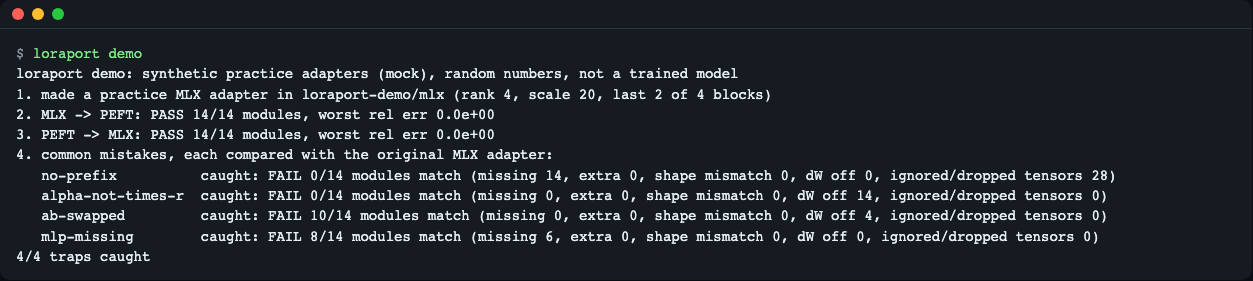
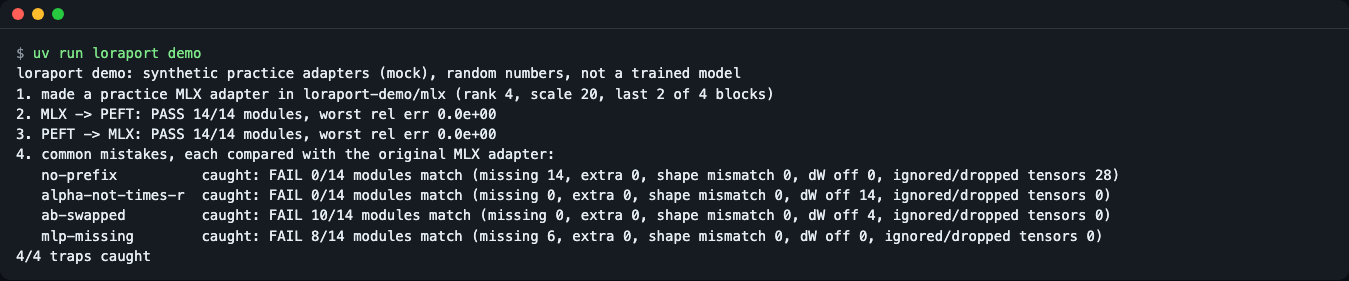
fix(demo): create the DoRA example folder in demo
The demo command now writes loraport-demo/dora so the README refusal
example reproduces. Refresh screenshots, docs and tests to match.

diff --git a/src/loraport/cli.py b/src/loraport/cli.py
@@ -18,7 +18,7 @@ from .delta import compare
 from .detect import load_adapter
 from .errors import LoraportError, UnsupportedAdapterError
 from .render import adapter_summary, render_inspect, render_report
-from .sample import TRAP_NAMES, make_mlx_adapter, make_trap, write_base_config
+from .sample import TRAP_NAMES, make_dora_adapter, make_mlx_adapter, make_trap, write_base_config
 
 
 def _cmd_inspect(args: argparse.Namespace) -> int:
@@ -98,6 +98,8 @@ def _cmd_demo(args: argparse.Namespace) -> int:
         caught += 0 if rep.ok else 1
         print(f"   {kind:<18} {'caught' if not rep.ok else 'MISSED'}: {rep.headline()}")
     print(f"{caught}/{len(TRAP_NAMES)} traps caught")
+    # extra folder for README section 5 (a DoRA adapter that convert must refuse); prints nothing
+    make_dora_adapter(mlx_dir, out / "dora")
     return 0 if to_peft.ok and back.ok and caught == len(TRAP_NAMES) else 1
 
 

diff --git a/src/loraport/sample.py b/src/loraport/sample.py
@@ -10,6 +10,7 @@ from __future__ import annotations
 
 import json
 import math
+import shutil
 from pathlib import Path
 
 import numpy as np
@@ -74,6 +75,16 @@ def make_mlx_adapter(dst: Path, *, rank: int = 4, scale: float = 20.0, num_layer
     layers = list(range(total - num_layers, total))
     adapter = Adapter("mlx", rank, scale, random_modules(layers, rank, scale, seed))
     write_mlx(adapter, dst, total_layers=total)
+    return dst
+
+
+def make_dora_adapter(mlx_dir: Path, dst: Path) -> Path:
+    """Copy an MLX practice adapter and mark it ``fine_tune_type: dora`` (loraport refuses it)."""
+    shutil.copytree(mlx_dir, dst, dirs_exist_ok=True)
+    cfg_path = dst / CONFIG_NAME
+    cfg = json.loads(cfg_path.read_text(encoding="utf-8"))
+    cfg["fine_tune_type"] = "dora"
+    cfg_path.write_text(json.dumps(cfg, indent=2) + "\n", encoding="utf-8")
     return dst
 
 

diff --git a/tests/test_cli.py b/tests/test_cli.py
@@ -22,6 +22,16 @@ def test_demo_runs_end_to_end(tmp_path: Path, capsys: pytest.CaptureFixture[str]
     assert "4/4 traps caught" in out and "MISSED" not in out
 
 
+def test_demo_creates_dora_folder_that_convert_refuses(tmp_path: Path, capsys: pytest.CaptureFixture[str]) -> None:
+    demo = tmp_path / "demo"
+    assert main(["demo", "--out", str(demo)]) == 0
+    assert (demo / "dora").is_dir()
+    capsys.readouterr()
+    assert main(["convert", str(demo / "dora"), str(demo / "x"), "--to", "peft"]) == 2
+    assert "fine_tune_type='dora'" in capsys.readouterr().err
+    assert not (demo / "x").exists()
+
+
 def test_demo_via_subprocess(tmp_path: Path) -> None:
     proc = subprocess.run(
         [sys.executable, "-m", "loraport.cli", "demo", "--out", str(tmp_path / "d")],

diff --git a/src/loraport/__init__.py b/src/loraport/__init__.py
@@ -2,7 +2,7 @@
 
 from __future__ import annotations
 
-__version__ = "0.1.0"
+__version__ = "0.1.1"
 
 from .convert import ConvertResult, convert  # noqa: E402
 from .delta import Report, compare  # noqa: E402

diff --git a/README.md b/README.md
@@ -25,7 +25,7 @@ git clone https://github.com/LeeGyeongPil/loraport && cd loraport
 uv run loraport --version
 ```
 ```text
-loraport 0.1.0
+loraport 0.1.1
 ```
 - 필요한 것: Python 3.11 이상(`.python-version` 은 3.12). 의존성은 `numpy`·`safetensors` 뿐이라 torch·mlx 없이 맥·리눅스 어디서나 돕니다.
 - 최소 리눅스 환경에서는 `git`, `curl` 정도만 더 있으면 됩니다.
@@ -89,7 +89,7 @@ PASS 14/14 modules, worst rel err 0.0e+00   [source vs converted, rtol 1e-05]
 next steps:
   vLLM:      vllm serve Qwen/Qwen2.5-1.5B-Instruct --enable-lora --lora-modules my-adapter=loraport-demo/out/peft
   llama.cpp: python convert_lora_to_gguf.py --base <BASE_MODEL_DIR> --outfile adapter.gguf loraport-demo/out/peft
-  Check the target runtime accepts the adapter (rank limits, supported modules) with lora-preflight(별도 도구, 아직 공개 전).
+  Check the target runtime accepts the adapter (rank limits, supported modules) with lora-preflight.
 ```
 ![convert 화면](docs/images/03-convert.png)
 *변환이 끝나면 자동 검증 결과와 vLLM·llama.cpp 다음 명령이 나온다.*
@@ -97,6 +97,7 @@ next steps:
 - 변환 결과는 `adapter_model.safetensors`(메타데이터 `format=pt`)와 `adapter_config.json` 입니다. 설정에는 필요한 필드만 쓰고 학습 인자(데이터 경로 등)는 복사하지 않습니다.
 - 반대 방향은 `--to mlx`. `--base-config` 가 있으면 `num_layers` 를 `전체 층 수 − 가장 앞 층 번호` 로 계산하고, 없으면 `-1`(모든 블록)로 씁니다.
 - `--base-model-id` 를 주지 않으면 `base_model_name_or_path` 는 `null` 입니다.
+- 마지막 줄의 `lora-preflight` 는 별도 도구이며 아직 공개 전입니다.
 - `llama.cpp` 줄의 `<BASE_MODEL_DIR>` 는 직접 채우는 자리표시입니다. llama.cpp·vLLM 명령 자체는 이 도구가 실행하지 않고 안내만 합니다.
 
 ### 3) 두 어댑터 비교하기(CI)
@@ -133,7 +134,7 @@ exit=1
 ### 5) 지원하지 않는 형태는 거부
 DoRA 어댑터(`fine_tune_type: dora`)는 조용히 망가뜨리지 않고 이유와 함께 거부합니다(아무것도 쓰지 않음). `demo` 가 만든 `loraport-demo/dora` 로 재현합니다.
 ```bash
-loraport convert loraport-demo/dora out/x --to peft; echo "exit=$?"
+uv run loraport convert loraport-demo/dora out/x --to peft; echo "exit=$?"
 ```
 ```text
 error: refusing to convert an unsupported adapter:
@@ -200,7 +201,7 @@ flowchart LR
 - 이럴 땐 다른 도구: 기본 모델에 병합한 전체 모델이 필요하면 [mlx-lm `fuse`](https://github.com/ml-explore/mlx-lm/blob/main/mlx_lm/LORA.md), PEFT 어댑터를 GGUF LoRA 로 바꾸려면 [llama.cpp `convert_lora_to_gguf.py`](https://github.com/ggml-org/llama.cpp), 이미 PEFT 형식인 어댑터를 vLLM·llama.cpp 가 받아 줄지 미리 따지려면 lora-preflight.
 
 ## 지원 안 하는 것과 한계
-- 0.1.0 에서 거부하는 형태: DoRA, MoE(3차원 텐서), embedding LoRA, `modules_to_save`, `rank_pattern`/`alpha_pattern`, bias 어댑터. GGUF 직접 쓰기, 기본 모델 병합, 허브 다운로드(로컬 폴더만)도 범위 밖입니다.
+- 0.1.1 에서 거부하는 형태: DoRA, MoE(3차원 텐서), embedding LoRA, `modules_to_save`, `rank_pattern`/`alpha_pattern`, bias 어댑터. GGUF 직접 쓰기, 기본 모델 병합, 허브 다운로드(로컬 폴더만)도 범위 밖입니다.
 - **ΔW 동일성만 증명합니다.** 양자화한 기본 모델에 붙이면 출력은 조금 달라질 수 있습니다(출력 동일성은 보장하지 않음).
 - **mlx-lm 쪽은 실제 로드를 확인하지 못했습니다.** 형식은 mlx-lm 0.32.2 설치본 소스와 허브의 실제 mlx-lm 어댑터 헤더로 확인했고, 개발 환경(Metal 장치 없음)에서 `mlx_lm` 의 `load_adapters` 를 직접 돌려 보지는 못했습니다. `--to mlx` 의 `num_layers=-1`·파일에 없는 층이 ΔW=0 으로 남는다는 동작도 소스를 읽은 근거입니다. 맥의 일반 터미널에서는 `uv run --with mlx-lm pytest -m mlx` 로 왕복 테스트를 돌려 볼 수 있는데, 이 명령은 아직 실행해 보지 않았습니다.
 - 어댑터 전체를 float32 로 메모리에 올립니다(스트리밍 아님). 수백 MB 급까지는 가능합니다.
@@ -221,7 +222,7 @@ flowchart LR
 uv run pytest -q
 ```
 ```text
-69 passed, 2 skipped in 1.76s
+70 passed, 2 skipped in 1.70s
 ```
 건너뛴 2개는 선택 테스트(실제 PEFT 통합, 맥 전용 mlx 통합)입니다. PEFT 통합은 `uv run --extra peft pytest -q -m peft tests/test_peft_integration.py` 로 돌립니다(torch 설치 때문에 첫 실행은 1분 넘게 걸림. 개발 환경에서 `1 passed`).
 

diff --git a/README.en.md b/README.en.md
@@ -23,7 +23,7 @@ git clone https://github.com/LeeGyeongPil/loraport && cd loraport
 uv run loraport --version
 ```
 ```text
-loraport 0.1.0
+loraport 0.1.1
 ```
 - Requires Python 3.11+ (`.python-version` pins 3.12). The only dependencies are `numpy` and `safetensors`, so it runs on macOS and Linux without torch or mlx.
 - On a minimal Linux image you only need `git` and `curl` in addition.
@@ -131,7 +131,7 @@ exit=1
 ### 5) Unsupported adapter types are refused
 A DoRA adapter (`fine_tune_type: dora`) is refused with a reason instead of being converted wrongly; nothing is written. Reproduce it with the `loraport-demo/dora` folder that `demo` creates.
 ```bash
-loraport convert loraport-demo/dora out/x --to peft; echo "exit=$?"
+uv run loraport convert loraport-demo/dora out/x --to peft; echo "exit=$?"
 ```
 ```text
 error: refusing to convert an unsupported adapter:
@@ -198,7 +198,7 @@ Format notes and sources: [docs/format-notes.md](docs/format-notes.md).
 - Other tools: for a merged full model use [mlx-lm `fuse`](https://github.com/ml-explore/mlx-lm/blob/main/mlx_lm/LORA.md); to turn a PEFT adapter into a GGUF LoRA use [llama.cpp `convert_lora_to_gguf.py`](https://github.com/ggml-org/llama.cpp); to predict whether vLLM or llama.cpp will accept an adapter that is already in PEFT format, use lora-preflight (a separate tool, not published yet).
 
 ## Unsupported and limits
-- Refused in 0.1.0: DoRA, MoE (3-D tensors), embedding LoRA, `modules_to_save`, `rank_pattern`/`alpha_pattern`, bias adapters. Writing GGUF directly, merging into the base model and downloading from the hub (local folders only) are out of scope.
+- Refused in 0.1.1: DoRA, MoE (3-D tensors), embedding LoRA, `modules_to_save`, `rank_pattern`/`alpha_pattern`, bias adapters. Writing GGUF directly, merging into the base model and downloading from the hub (local folders only) are out of scope.
 - **Only dW equality is proven.** Attached to a quantized base model, outputs may differ slightly (output equality is not guaranteed).
 - **Loading in mlx-lm itself was not verified.** The format was checked against the installed mlx-lm 0.32.2 source and the header of a real mlx-lm adapter on the hub, but `load_adapters` from `mlx_lm` could not be run in the development environment (no Metal device). The behavior of `num_layers=-1` and of layers missing from the file staying at dW = 0 for `--to mlx` also rests on reading the source. On a normal Mac terminal you can run the round-trip test with `uv run --with mlx-lm pytest -m mlx`; that command has not been run yet.
 - The whole adapter is loaded into memory as float32 (no streaming). Adapters up to a few hundred MB are fine.
@@ -219,7 +219,7 @@ Format notes and sources: [docs/format-notes.md](docs/format-notes.md).
 uv run pytest -q
 ```
 ```text
-69 passed, 2 skipped in 1.76s
+70 passed, 2 skipped in 1.70s
 ```
 The two skipped tests are optional (real PEFT integration, Mac-only mlx integration). Run the PEFT one with `uv run --extra peft pytest -q -m peft tests/test_peft_integration.py` (the first run takes over a minute because of torch; `1 passed` in the development environment).
 

diff --git a/CHANGELOG.md b/CHANGELOG.md
@@ -5,6 +5,11 @@ The format follows [Keep a Changelog](https://keepachangelog.com/en/1.1.0/) and 
 
 ## [Unreleased]
 
+## [0.1.1] - 2026-11-13
+
+### Fixed
+- `demo` now creates `loraport-demo/dora` so README section 5 reproduces the DoRA refusal; the section 5 command uses `uv run`.
+
 ## [0.1.0] - 2026-11-11
 
 ### Added
